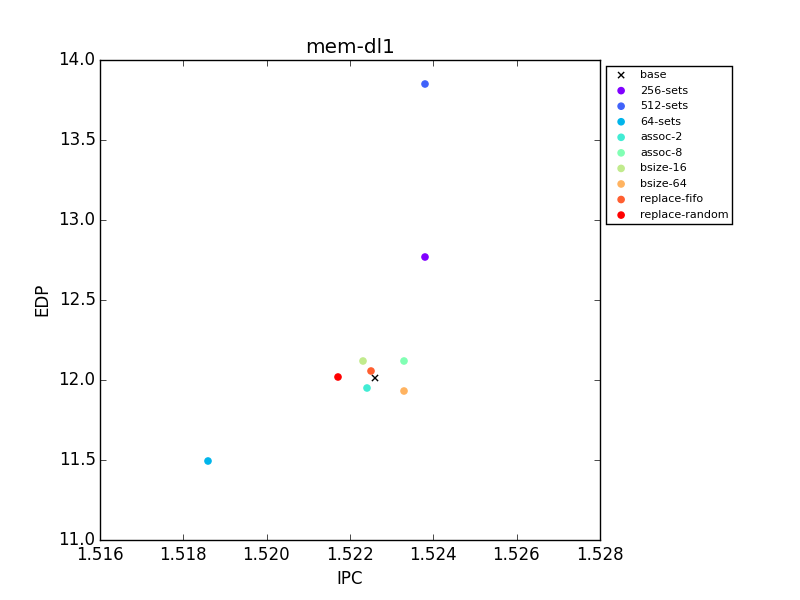
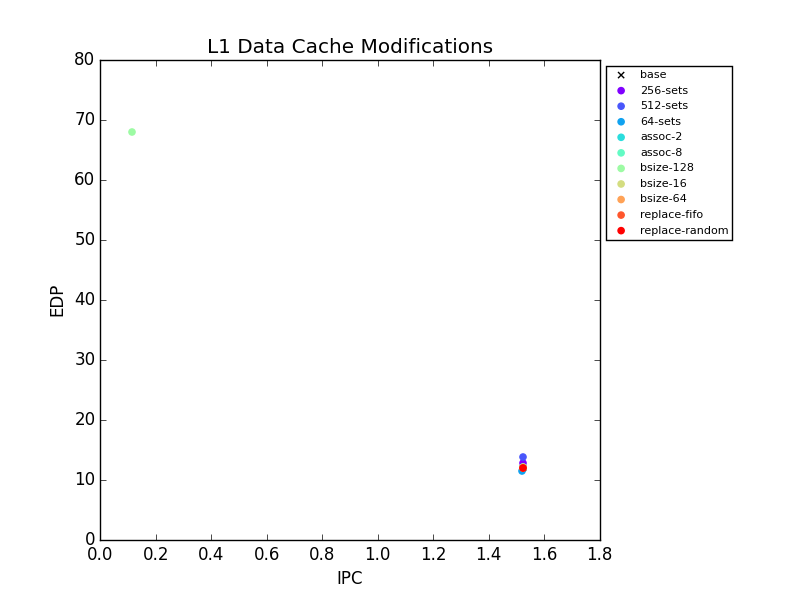
updating plots

diff --git a/plotter.py b/plotter.py
@@ -8,6 +8,16 @@ with open("step1_results.csv") as csvfile:
   reader = csv.reader(csvfile, delimiter=',')
   # skip header row
   next(reader, None)
+  titles = {
+    "func": "Functional Unit Modifications",
+    "mem-dl1": "L1 Data Cache Modifications",
+    "mem-il1": "L1 Instruction Cache Modifications",
+    "bp": "Branch Predictor Modifications",
+    "dp": "Data Path Modifications",
+    "mem-dl2-separated": "L2 Data Cache Modifications",
+    "mem-il2-separated": "L2 Instruction Cache Modifications",
+    "mem-l2-unified": "Unified L2 Cache Modifications",
+  }
   for row in reader:
     group = row[0]
     config = row[1]
@@ -47,7 +57,7 @@ for group_key, data in groups.iteritems():
     points.append(plt.scatter(x[i], y[i], color=colors[i]))
   ax = plt.subplot(111)
   plt.sca
-  ax.set_title(group_key)
+  ax.set_title(titles[group_key])
   ax.set_xlabel("IPC")
   ax.set_ylabel("EDP")
   ax.ticklabel_format(useOffset=False, style="plain")
